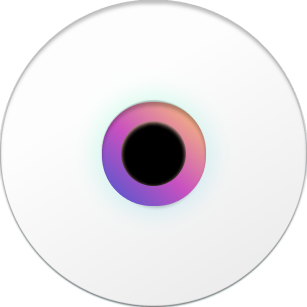
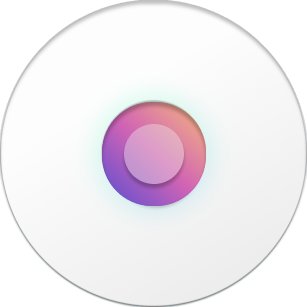
Style: 네비바 스타일 변경

Changed region(s): [[0.3811, 0.3811, 0.6156, 0.6156]]

diff --git a/frontend/src/components/common/NavBar/NavIcon.tsx b/frontend/src/components/common/NavBar/NavIcon.tsx
@@ -55,7 +55,8 @@ const CheckboxWrapper = styled.div`
     transform: translate(-50%, -50%);
     width: 60%;
     height: 60%;
-    background-color: #000000;
+    background-color: #EBEBEB;
+    opacity: 0.6;
     border-radius: 50%;
     box-shadow:
       inset 0 2px 4px rgba(255, 190, 184, 0.7),
@@ -85,7 +86,7 @@ const CheckboxWrapper = styled.div`
 
   ul {
     position: relative;
-    bottom: -30px;
+    bottom: -60px;
     width: 340px;
     height: 340px;
     margin: 0 auto;
@@ -107,6 +108,12 @@ const CheckboxWrapper = styled.div`
 
   li span {
     color: #000000;
+    font-size: 13px;
+  }
+
+  li img {
+    width: 50px;
+    height: 50px;
   }
 
   li:nth-child(1) {
@@ -210,7 +217,7 @@ const NavBar = () => {
 
   return (
     <FixedContainer ref={containerRef}>
-      {!isChecked && <div className="fixed top-0 left-0 w-[100vw] h-[100vh] bg-black opacity-50"></div>}
+      {!isChecked && <div className="fixed top-0 left-0 w-[100vw] h-[100vh] bg-black opacity-70"></div>}
       <CheckboxWrapper>
         {!isChecked && (
           <ul
